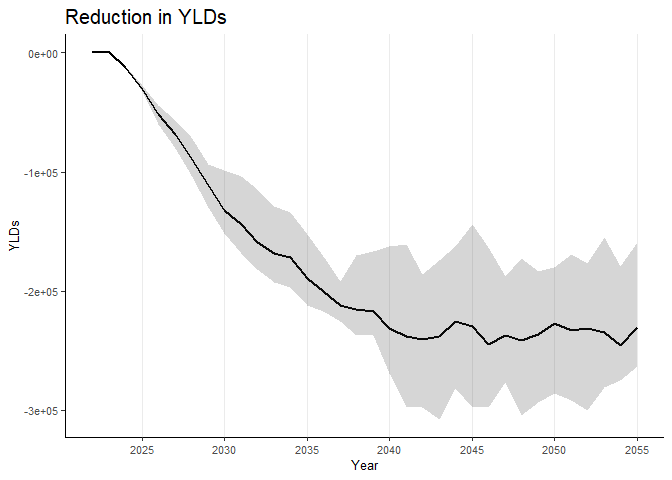
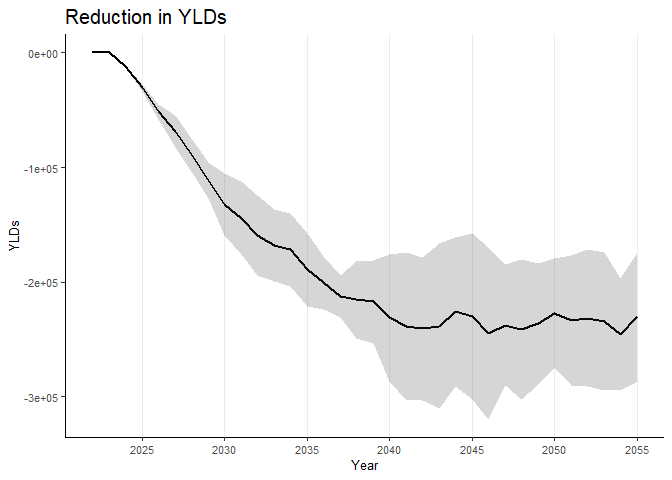
update gen_data_weighted_burden(), burden_disease(), gen_data_weighted_bd_spline(), and corresponding unit tests to include CI

diff --git a/README.md b/README.md
@@ -178,25 +178,6 @@ data_weighted_ds_wide_collapse <- gen_data_weighted_ds_cumdiff(data_weighted,
                                                                configname = "default")
 #> [1] "Loading the config file..."
 #> [1] "Processing the data..."
-#>  [1] "time"                            "simID"                          
-#>  [3] "totalcase_ihd_baseline"          "totalcase_ihd_intervention"     
-#>  [5] "totalcase_diabetes_baseline"     "totalcase_diabetes_intervention"
-#>  [7] "totalcase_stroke_baseline"       "totalcase_stroke_intervention"  
-#>  [9] "totalcase_asthma_baseline"       "totalcase_asthma_intervention"  
-#> [11] "totalcase_ckd_baseline"          "totalcase_ckd_intervention"     
-#> [13] "diff_inc_ihd"                    "diff_inc_db"                    
-#> [15] "diff_inc_stroke"                 "diff_inc_asthma"                
-#> [17] "diff_inc_ckd"                    "cumdiff_inc_ihd"                
-#> [19] "cumdiff_inc_db"                  "cumdiff_inc_stroke"             
-#> [21] "cumdiff_inc_asthma"              "cumdiff_inc_ckd"                
-#> [23] "cumdiff_inc_ihd_mean"            "cumdiff_inc_db_mean"            
-#> [25] "cumdiff_inc_stroke_mean"         "cumdiff_inc_asthma_mean"        
-#> [27] "cumdiff_inc_ckd_mean"            "cumdiff_inc_ihd_ci_low"         
-#> [29] "cumdiff_inc_db_ci_low"           "cumdiff_inc_stroke_ci_low"      
-#> [31] "cumdiff_inc_asthma_ci_low"       "cumdiff_inc_ckd_ci_low"         
-#> [33] "cumdiff_inc_ihd_ci_high"         "cumdiff_inc_db_ci_high"         
-#> [35] "cumdiff_inc_stroke_ci_high"      "cumdiff_inc_asthma_ci_high"     
-#> [37] "cumdiff_inc_ckd_ci_high"        
 #> [1] "Data processing complete."
 inc_cum("diabetes",
     data_weighted_ds_wide_collapse,
@@ -218,10 +199,6 @@ data_weighted_bd_wide_collapse <- gen_data_weighted_burden(data_weighted,
 #> [1] "Processing the data..."
 #> [1] "Data processing complete."
 burden_disease("yld", data_weighted_bd_wide_collapse)
-#> Warning: Use of `data_weighted_bd_wide_collapse$time` is discouraged.
-#> ℹ Use `time` instead.
-#> Use of `data_weighted_bd_wide_collapse$time` is discouraged.
-#> ℹ Use `time` instead.
 ```
 
 <img src="man/figures/README-burden_disease_plot-1.png" width="100%" />
